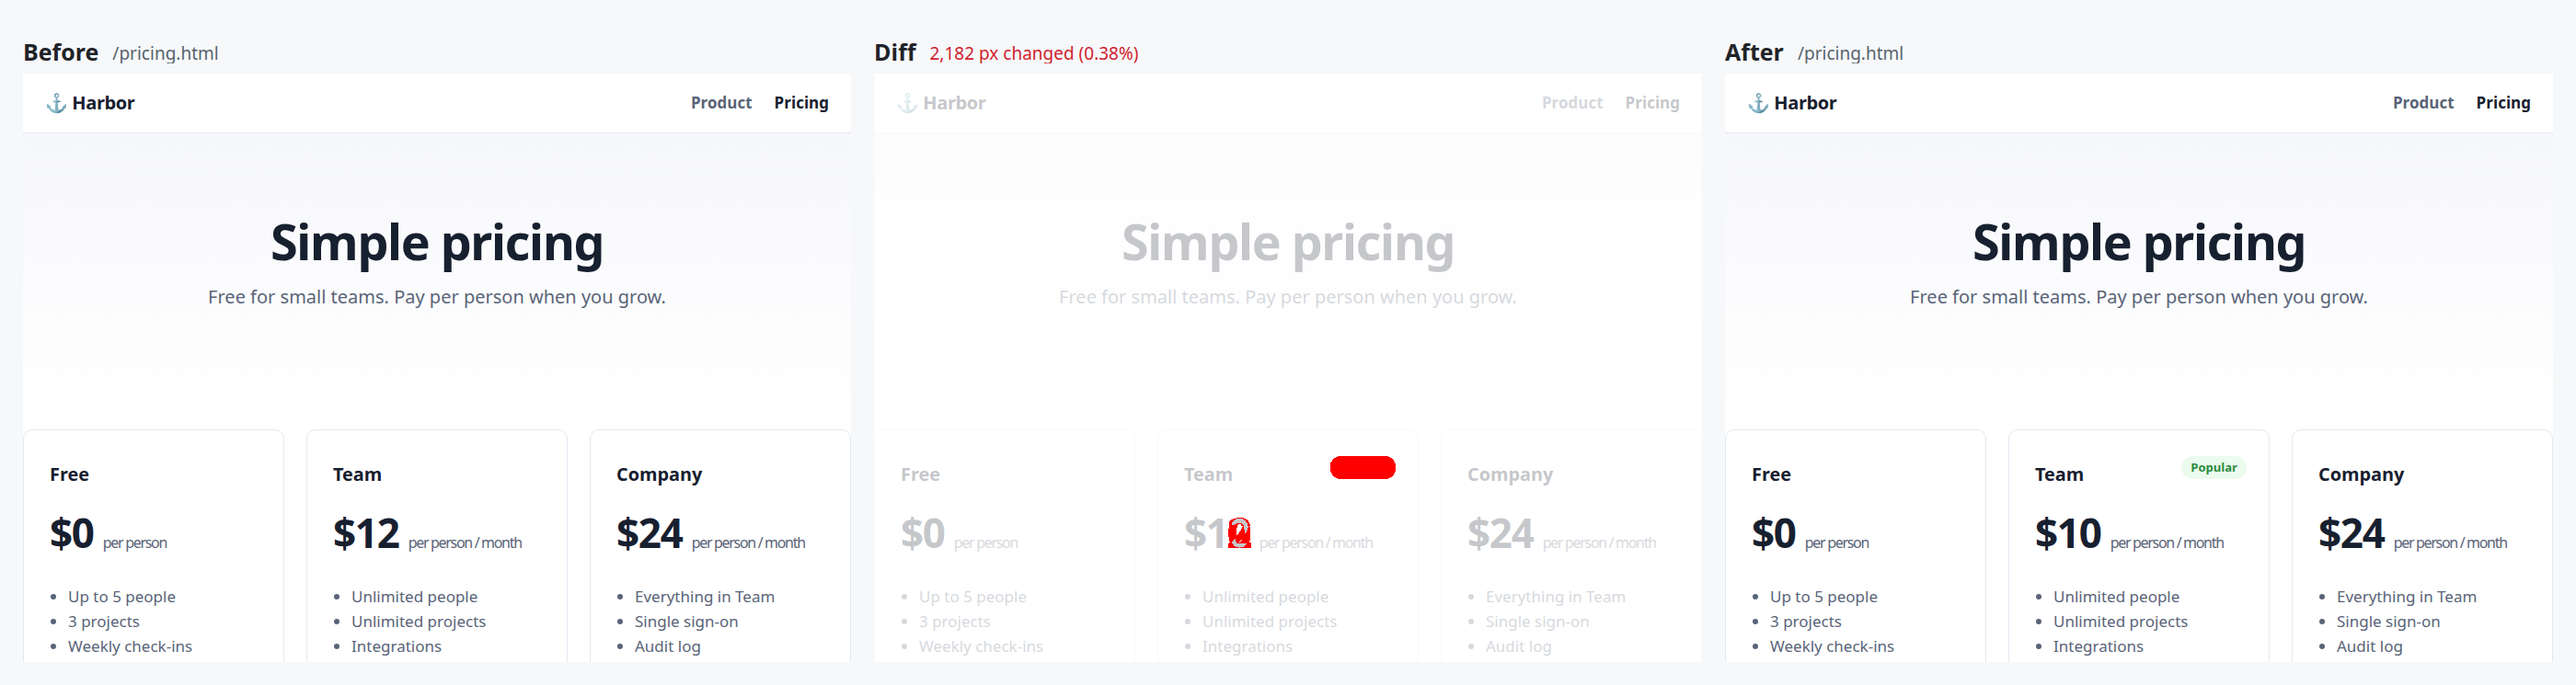
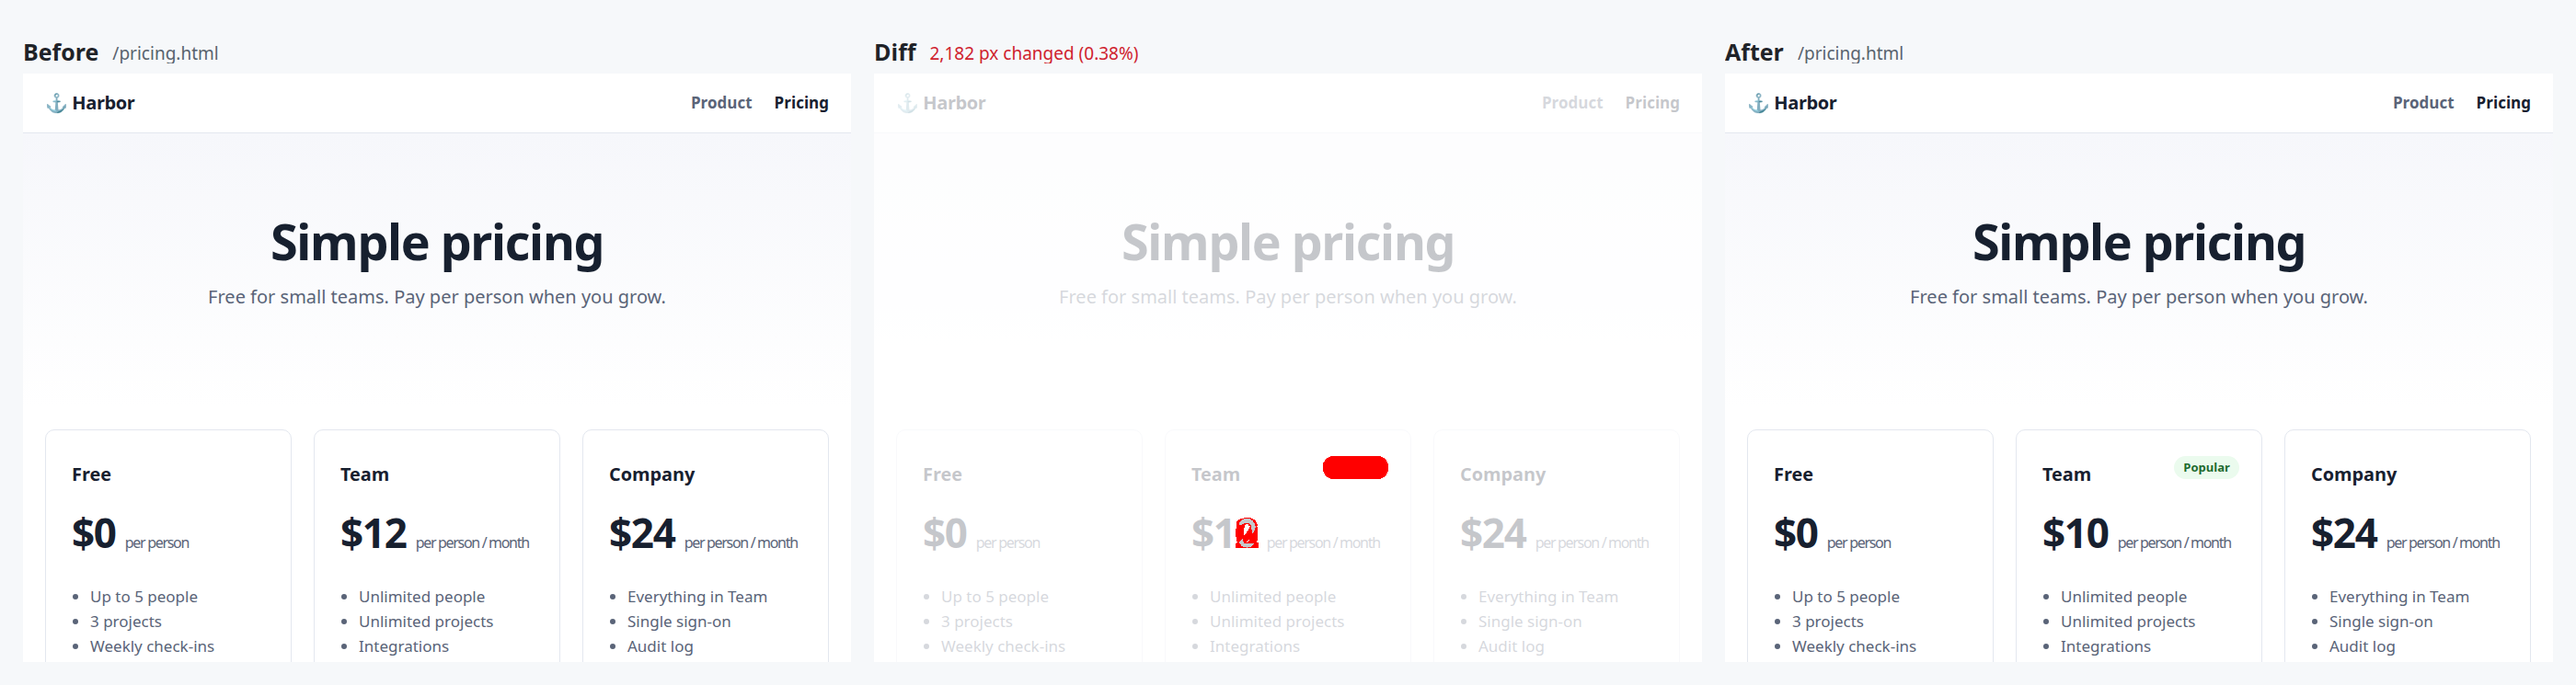
Fix: Keep the demo cards off the screen edge and its new green readable
- The features and plans sections overrode the side padding of .wrap
- Darken the after version's green to 4.9:1 against white text, and the badge text to 6.1:1
- Regenerate the README images

diff --git a/examples/demo/after/styles.css b/examples/demo/after/styles.css
@@ -2,7 +2,7 @@
   --ink: #17202f;
   --muted: #5a6478;
   --line: #e3e7ef;
-  --brand: #2f9e44;
+  --brand: #28803a;
   --brand-ink: #ffffff;
   --surface: #f6f7fb;
   --radius: 10px;
@@ -105,7 +105,7 @@ a {
   display: grid;
   grid-template-columns: repeat(auto-fit, minmax(240px, 1fr));
   gap: 24px;
-  padding: 72px 0;
+  padding-block: 72px;
 }
 
 .card {
@@ -188,7 +188,7 @@ a {
   display: grid;
   grid-template-columns: repeat(auto-fit, minmax(240px, 1fr));
   gap: 24px;
-  padding: 24px 0 88px;
+  padding-block: 24px 88px;
 }
 
 .plan {
@@ -209,7 +209,7 @@ a {
   padding: 2px 10px;
   border-radius: 999px;
   background: #ebfbee;
-  color: #2b8a3e;
+  color: #1e6b30;
   font-size: 13px;
   font-weight: 700;
 }

diff --git a/examples/demo/before/styles.css b/examples/demo/before/styles.css
@@ -105,7 +105,7 @@ a {
   display: grid;
   grid-template-columns: repeat(auto-fit, minmax(240px, 1fr));
   gap: 24px;
-  padding: 72px 0;
+  padding-block: 72px;
 }
 
 .card {
@@ -188,7 +188,7 @@ a {
   display: grid;
   grid-template-columns: repeat(auto-fit, minmax(240px, 1fr));
   gap: 24px;
-  padding: 24px 0 88px;
+  padding-block: 24px 88px;
 }
 
 .plan {
